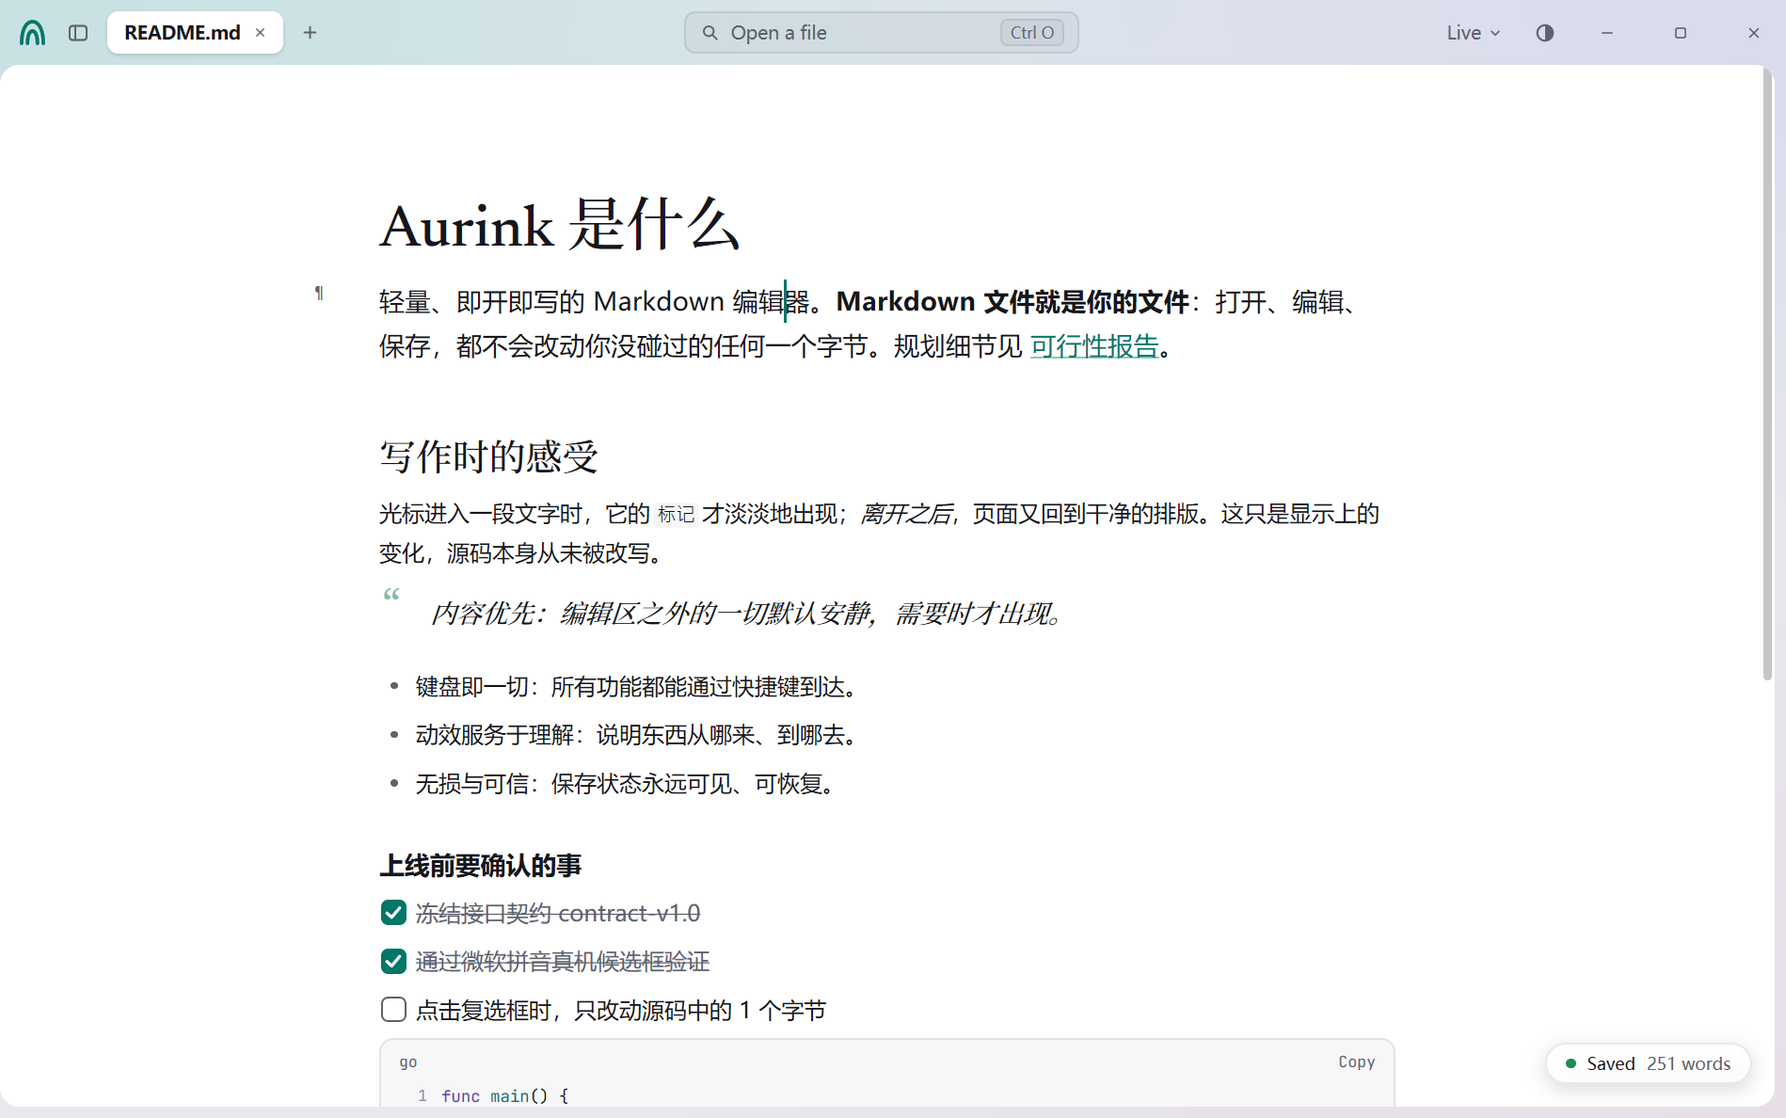
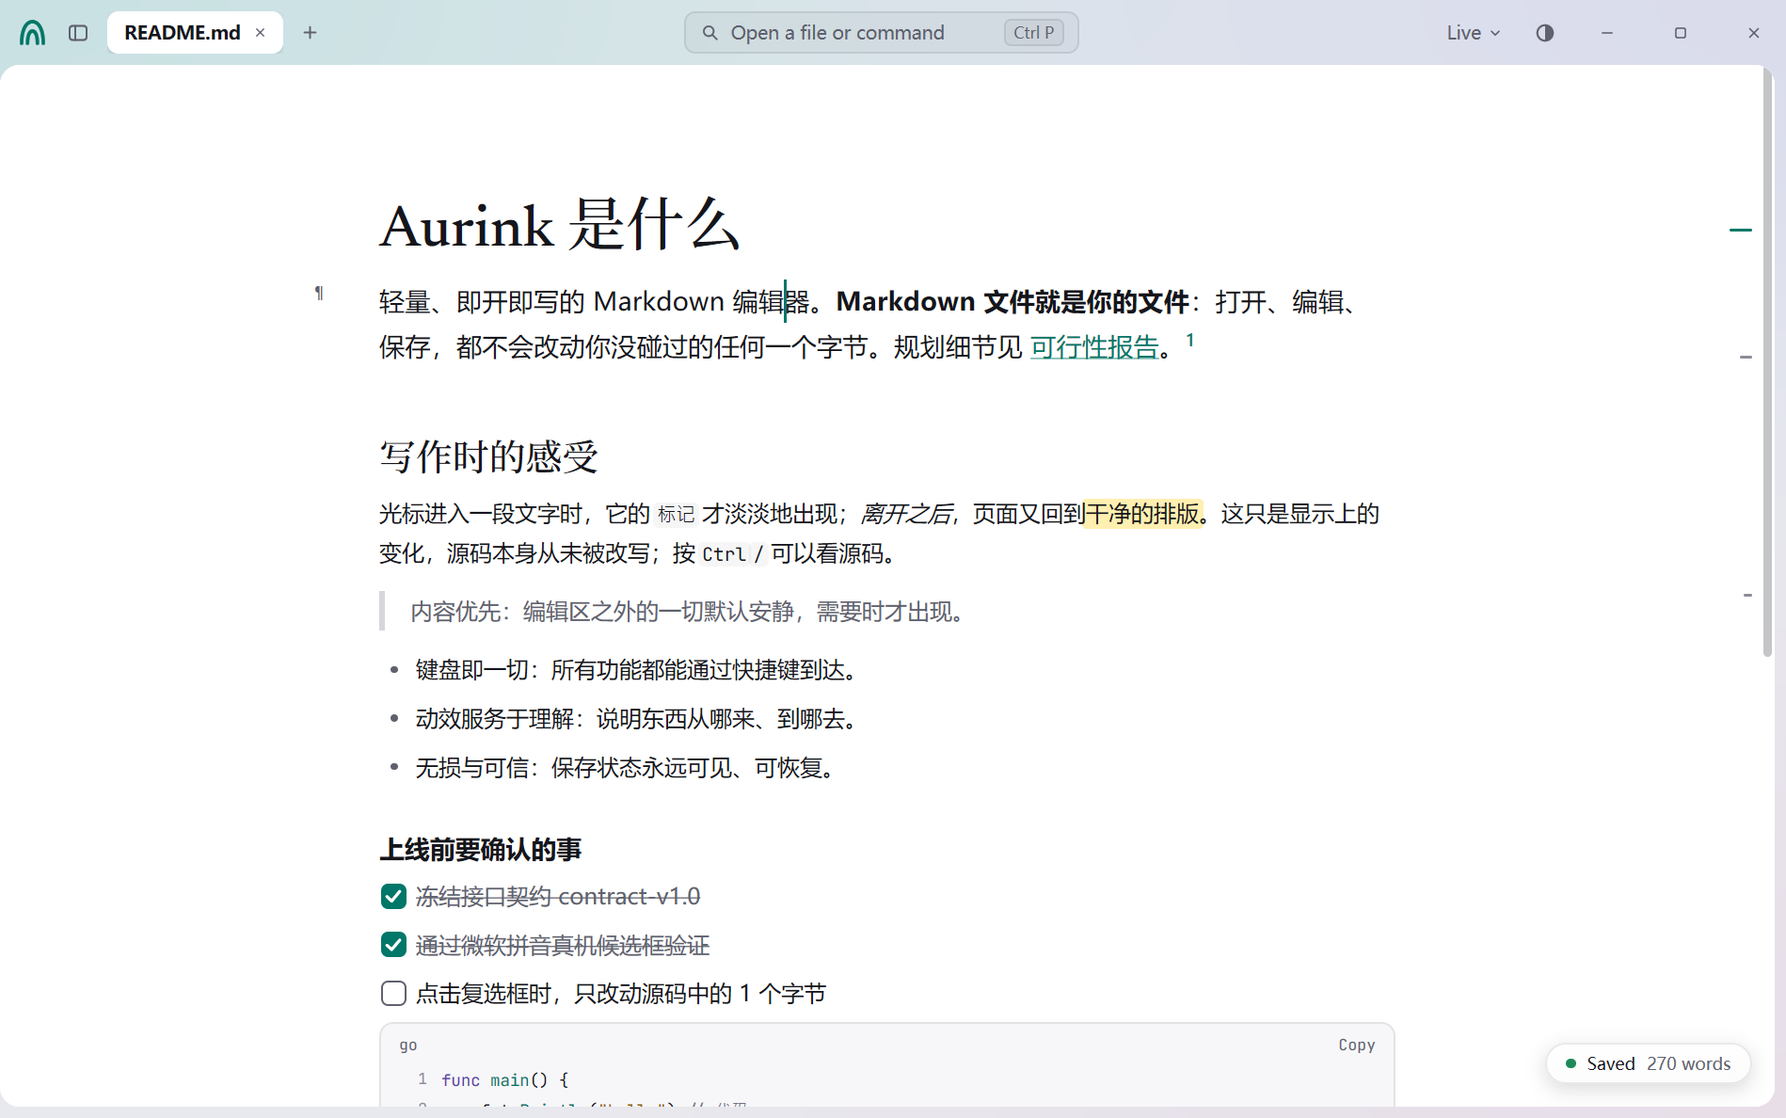
Batch 13: performance table, parity at 150% and in Chinese, idle check
- reports/quality.md: the 07 §7 table and the real-window frame work
  (200 KB p95 about 5 ms, 1 MB about 15 ms); TypeFrame is level with M1's
  code on this machine.
- windowcheck: frame work timing, notices dismissed after their shot,
  the find bar closed before the conflict shot.
- Parity: Find and Conflict records; Main updated for the rail, tree and
  footnotes; screens at 150% in English and Chinese.
- tests/qa: idle with a watched folder, each panel and the find bar open.
- docs/07: batches 11 to 13 recorded, 14 waits for the user.

diff --git a/tools/windowcheck/main.go b/tools/windowcheck/main.go
@@ -43,6 +43,10 @@ func (d *dispatcher) Post(fn func()) {
 
 type platform struct{ w *mygo.Window }
 
+// buildStart is when the window's last frame began building: a frame's work
+// runs from it to the end of the paint, without the wait for the display.
+var buildStart time.Time
+
 func (platform) OpenFile(done func(string))                     { done("") }
 func (platform) OpenFolder(done func(string))                   { done("") }
 func (platform) ConfirmTrash(_ string, done func(bool))         { done(true) }
@@ -133,7 +137,7 @@ func main() {
 			log.Fatal(err)
 		}
 		w = mygo.NewWindow(mygo.WindowOptions{Title: "Aurink", Width: 1280, Height: 800, TitleBarStyle: mygo.TitleBarHidden,
-			HideWindowButtons: true, Content: ui.View(s.View)})
+			HideWindowButtons: true, Content: ui.View(func(c *ui.Context) { buildStart = time.Now(); s.View(c) })})
 		d.w, p.w = w, w
 		go script(w, s, reg, store, tmp, *out)
 	})
@@ -193,13 +197,19 @@ func script(w *mygo.Window, s *shell.Shell, reg *commands.Registry, store *setti
 	shot("PaletteQuery")
 	on(w, func() { s.Palette().Close() })
 	time.Sleep(300 * time.Millisecond)
+	var shown []contract.NoticeHandle
 	on(w, func() {
-		s.Notify(contract.Notice{Level: contract.NoticeInfo, Message: "已保存到磁盘", Detail: "README.md", Sticky: true})
+		shown = append(shown, s.Notify(contract.Notice{Level: contract.NoticeInfo, Message: "已保存到磁盘", Detail: "README.md", Sticky: true}))
 	})
 	on(w, func() {
-		s.Notify(contract.Notice{Level: contract.NoticeError, Message: "保存失败", Detail: "磁盘已满", Sticky: true})
+		shown = append(shown, s.Notify(contract.Notice{Level: contract.NoticeError, Message: "保存失败", Detail: "磁盘已满", Sticky: true}))
 	})
 	shot("Notify")
+	on(w, func() {
+		for _, h := range shown {
+			h.Dismiss()
+		}
+	})
 	on(w, func() {
 		if err := store.Update(func(v *contract.Settings) { v.Appearance.ReduceTransparency = true }); err != nil {
 			log.Fatal(err)
@@ -247,10 +257,12 @@ func script(w *mygo.Window, s *shell.Shell, reg *commands.Registry, store *setti
 	run(contract.CmdEditReplace)
 	shot("SourceFind")
 	run(contract.CmdViewLive)
+	on(w, s.CloseFind)
 	// A conflict: an edit, a change on disk, a save.
 	on(w, func() {
 		m := s.ActiveSession().Model()
-		if _, err := m.Apply(contract.Transaction{Edits: []contract.TextEdit{{Range: contract.Range{Start: 0, End: 0}, Text: "x"}},
+		eol := strings.IndexByte(demo, '\n')
+		if _, err := m.Apply(contract.Transaction{Edits: []contract.TextEdit{{Range: contract.Range{Start: eol, End: eol}, Text: "（草稿）"}},
 			Origin: contract.OriginUser}); err != nil {
 			log.Fatal(err)
 		}
@@ -269,16 +281,18 @@ func script(w *mygo.Window, s *shell.Shell, reg *commands.Registry, store *setti
 	on(w, func() { w.Destroy(); mygo.App.Quit() })
 }
 
-// stress times 500 keystrokes from the edit to the end of the frame that paints it.
+// stress times 500 keystrokes from the edit to the end of the frame that paints
+// it, and that frame's own work from its build to its paint (07 §7).
 func stress(w *mygo.Window, s *shell.Shell, size int) {
 	const n = 500
 	times := make([]time.Duration, 0, n)
-	painted := make(chan struct{}, 1)
+	works := make([]time.Duration, 0, n)
+	painted := make(chan time.Duration, 1)
 	on(w, func() {
 		e := s.ActiveLive()
 		e.OnPainted = func() {
 			select {
-			case painted <- struct{}{}:
+			case painted <- time.Since(buildStart):
 			default:
 			}
 		}
@@ -300,12 +314,15 @@ func stress(w *mygo.Window, s *shell.Shell, size int) {
 			}
 		})
 		select {
-		case <-painted:
+		case work := <-painted:
 			times = append(times, time.Since(t0))
+			works = append(works, work)
 		case <-time.After(2 * time.Second):
 			log.Fatal("no frame painted the edit")
 		}
 	}
 	slices.Sort(times)
-	fmt.Printf("window %d KB: p50 %v p95 %v max %v\n", size>>10, times[n/2], times[n*95/100], times[n-1])
+	slices.Sort(works)
+	fmt.Printf("window %d KB: edit to painted p50 %v p95 %v max %v; frame work p50 %v p95 %v max %v\n", size>>10,
+		times[n/2], times[n*95/100], times[n-1], works[n/2], works[n*95/100], works[n-1])
 }

diff --git a/tests/qa/scenarios_test.go b/tests/qa/scenarios_test.go
@@ -1259,6 +1259,21 @@ var scenarios = []scenario{
 			a.t.Fatal("frames while idle")
 		}
 	}},
+	{"idle with a folder watched, each panel and the find bar open, no frames (07 §7)", func(a *app) {
+		root := a.folder("a.md", "sub/b.md")
+		a.s.Open(filepath.Join(root, "a.md"))
+		a.settle()
+		a.run(contract.CmdEditFind)
+		a.typed("a")
+		for _, id := range []contract.CommandID{contract.CmdViewFiles, contract.CmdViewOutline, contract.CmdViewSearch} {
+			a.run(id)
+			a.tt.Advance(time.Minute)
+			a.tt.Frame()
+			if a.tt.FramePending() {
+				a.t.Fatalf("frames while idle after %s", id)
+			}
+		}
+	}},
 	{"words count CJK by character", func(a *app) {
 		for text, want := range map[string]int{"": 0, "two words": 2, "中文 ok": 3, "don't-stop 1": 2, "# 标题\n": 2} {
 			if got := shell.CountWords(text); got != want {

diff --git a/internal/views/shell/find.go b/internal/views/shell/find.go
@@ -362,3 +362,10 @@ func (s *Shell) SetFind(q string) {
 		s.invalidate()
 	}
 }
+
+// CloseFind closes the live find bar of the active tab, as Escape does.
+func (s *Shell) CloseFind() {
+	if d := s.active; d != nil && d.find.open {
+		(&liveFinder{s: s, d: d}).Close()
+	}
+}

diff --git a/docs/07-phase2.md b/docs/07-phase2.md
@@ -293,7 +293,8 @@ M1 的真窗口数字包含等待屏幕刷新，不能直接和 8 ms 比。QA-2.
 | 8 | 完成 | `ab63719` `410ab25` 及本次 | — | 文件树：懒加载、新建、行内重命名（双击或 `file.rename`）、移到回收站（有未保存内容先确认）、拖到文件夹移动并在通知里撤销、改名和移动时标签跟随。大纲：滚动联动、点击定位。搜索：流式结果按文件分组、命中高亮、可折叠、点击定位，三种选项，最多保留 2000 处。1 万文件时树和搜索每帧都只构建约 20–30 行。`file.rename` 还没有默认快捷键（02 写的是 F2），要在 core 的默认键位里加，留到 INT-2.1。拖动时行的上浮姿态用的是 MyGo 自带的拖动副本，没有做 `Pose{Scale:1.02}`。搜索只搜磁盘上的内容，已打开但未保存的修改搜不到 |
 | 9 | 完成 | `eb594d1` `a207dcd` `1a72147` `5674df4` | — | 结构导轨（标题刻度、查找命中，点击跳转）；表格容器、玻璃工具条（+行/+列/格式化）、右键菜单、`Ctrl+Enter` 下方插行；链接弹层（编辑 `Ctrl+K` / 打开，相对路径按文档目录解析，引用式链接只开不改）；脚注上标与悬停预览、`<kbd>` `<mark>` `<sup>` 等行内 HTML 样式。BE-1.6b（投影 v2）由 Codex 做，负责人加端到端测试并做了 3 个变异，全被测出。导轨不画视口滑块，M1 的滚动条已有 |
 | 10 | 完成 | `a36cf10` `0583e7d` | — | 复制放 Markdown 源码、`text/markdown`、HTML 片段；粘贴优先 Markdown，其次 HTML/RTF 转换；图片与图片文件导入资源目录（未保存先另存）；拖入图片插在光标处，拖入 `.md` 打开；2000 行粘贴一次撤销。`a36cf10` 推送时门禁未过（视图导入了 `mygo/transfer`），`0583e7d` 改由 `adapters/clipboard` 实现后修复 |
-| 11 | 完成 | 本次 | — | 查找栏：右上角 440 宽玻璃，Aa / W / .*、计数、↑↓、替换行 Collapse 展开，Enter / Shift+Enter / Esc；实时与源码两种模式同一外观（D16）。横幅：冲突（保留我的版本 / 载入磁盘版本）、已删除（重新保存 / 关闭标签）、只读（另存为）、大文件；每个按钮都有场景测试，冲突按钮互换的变异两个测试都失败。胶囊冲突态改为橙点，新增“已删除，未写入”。BE-1.6c 修了多改动事务的映射耗时。同批修了 Linux CI 上 S4 字体测试（CJK 回退变成了已注册的 Noto） |
-| 真机修复 | 完成 | 本次 | — | 用户真机反馈两处与 Typora 不一致：① 单独的 `#` `+` `-` `*` `1.` `>` 立即变成空标题/列表/引用，再打字又变回文本；改为后跟空格才生效（投影把待定标记显示为普通段落，Enter/Backspace 按文本处理；BE-FIX-PENDING 由 Codex 做，04 §4.3.7 加一条例外）。`> a` 下一行的 `>` 是引用内空行，不算待定。② 引用由衬线斜体 + 悬挂引号改为正文字体淡色 + 左侧 4 px 竖条贯穿整块，导出 CSS 同步（02 §1、§4.2 已改）。设计基线里的引用仍是旧样式，批次 13 对照时按新样式记差异。`TestReplaceAllAtScale` 在 `-race` 下不计时限 |
-| 12 | 完成 | 本次 | — | INT-2.1：会话保存与恢复（含被杀死后、关窗后、文件缺失、会话损坏、设置关闭、崩溃副本排位）、最近文件（欢迎页、快速打开、系统最近文档）、导出 HTML 命令、F2 / Ctrl+Shift+V / F3 默认键。会话的 6 个变异（不重排、不恢复滚动、关窗不冻结、不展开目录、不数缺失文件、编辑器不认 Ctrl+Shift+V）都被测出。窗口状态和对话框的真窗口验证留到批次 13 |
-| 13–14 | 未开始 | — | — | |
+| 11 | 完成 | `2283a72` `23b933e` `cae3cd3` | — | 查找栏：右上角 440 宽玻璃，Aa / W / .*、计数、↑↓、替换行 Collapse 展开，Enter / Shift+Enter / Esc；实时与源码两种模式同一外观（D16）。横幅：冲突（保留我的版本 / 载入磁盘版本）、已删除（重新保存 / 关闭标签）、只读（另存为）、大文件；每个按钮都有场景测试，冲突按钮互换的变异两个测试都失败。胶囊冲突态改为橙点，新增“已删除，未写入”。BE-1.6c 修了多改动事务的映射耗时。同批修了 Linux CI 上 S4 字体测试（CJK 回退变成了已注册的 Noto） |
+| 真机修复 | 完成 | `d813477` `cc7cb90` | — | 用户真机反馈两处与 Typora 不一致：① 单独的 `#` `+` `-` `*` `1.` `>` 立即变成空标题/列表/引用，再打字又变回文本；改为后跟空格才生效（投影把待定标记显示为普通段落，Enter/Backspace 按文本处理；BE-FIX-PENDING 由 Codex 做，04 §4.3.7 加一条例外）。`> a` 下一行的 `>` 是引用内空行，不算待定。② 引用由衬线斜体 + 悬挂引号改为正文字体淡色 + 左侧 4 px 竖条贯穿整块，导出 CSS 同步（02 §1、§4.2 已改）。设计基线里的引用仍是旧样式，批次 13 对照时按新样式记差异。`TestReplaceAllAtScale` 在 `-race` 下不计时限 |
+| 12 | 完成 | `8ff019e` `ae6e96a` | — | INT-2.1：会话保存与恢复（含被杀死后、关窗后、文件缺失、会话损坏、设置关闭、崩溃副本排位）、最近文件（欢迎页、快速打开、系统最近文档）、导出 HTML 命令、F2 / Ctrl+Shift+V / F3 默认键。会话的 6 个变异（不重排、不恢复滚动、关窗不冻结、不展开目录、不数缺失文件、编辑器不认 Ctrl+Shift+V）都被测出。窗口状态和对话框的真窗口验证留到批次 13 |
+| 13 | 完成 | `5edaa0a` 及本次 | — | QA-2.x。真窗口 E2E（`tests/e2e`，build tag `e2e`，只在本机 Windows 跑，不进 CI）：记住的窗口大小、以文件夹参数启动、快速打开、输入与自动保存、编辑中被外部修改后保留我的版本、关窗后再启动恢复文件夹和标签；原生对话框经 UI Automation 应答：新文档另存为、打开、导出 HTML、关闭确认的取消与不保存。E2E 发现并修了两处真实缺陷：MyGo 不把文件夹参数交给 `OnOpenFile`（改由 `folderArgs` 处理），真实应用的快速打开没有文件夹里的文件（新增后台 `fileIndex`）。性能表和真窗口帧工作时间见 `reports/quality.md`：200 KB 帧工作 p95 约 5 ms，1 MB 约 15 ms；`TypeFrame` 和 M1 代码同机对比持平。基线对照新增 Find、Conflict，150% 缩放和中文界面见 `reports/parity/README.md`。新增空闲场景（文件夹监听、各面板和查找栏打开时 0 帧） |
+| 14 | 等待用户 | — | — | M2 真机验收，清单见 §9 用户行 |

diff --git a/reports/quality.md b/reports/quality.md
@@ -208,6 +208,35 @@ Real window, `tools/windowcheck`, 500 keystrokes from the edit to the painted fr
 
 `tests/ui/perf_test.go`'s limit was raised from 8 ms to 16 ms in `ce57fb1`, because the Windows CI runner reached 11 ms. That test no longer guards the 8 ms budget.
 
+## QA-2.x performance (07 §7)
+
+Windows 11, one machine, 150% scaling (144 DPI). Integrated graphics, macOS and Linux are unverified.
+
+| Item | Budget | Result | Evidence |
+|---|---|---|---|
+| Typing, 200 KB | No worse than M1 | 1.22–1.30 ms/op; M1 code (`5b6bcc3~1`) on the same machine 1.22–1.31 ms/op | `BenchmarkTypeFrame200KB -benchtime 300x -count 3` |
+| Typing, 1 MB | No worse than M1 | 2.49–2.58 ms/op; M1 2.56–2.80 ms/op | `BenchmarkTypeFrame1MB`, same run |
+| Scrolling 10,000 blocks | No whole-screen relayout, rail open too | 1.08 ms/op, 7.5 shapes/frame; with 1,000 rail marks a frame lays out 0 rows, and a jump to the end at most 200 | `BenchmarkScroll10kBlocks`, `TestScrollShapesNoWholeScreen`, `TestRailDoesNotLayOutTheDocument` |
+| Find in 1 MB | < 5 ms | Literal 1.37 ms, regex 2.47 ms | `BenchmarkFind` |
+| Palette, 500 commands + 10,000 files | One frame | About 11 rows built per keystroke | `TestPaletteAtScale` |
+| File tree, 10,000 entries | Visible rows only | About 20–30 rows built per frame | `TestFileTreeAtScale`, `TestSearchAtScale` |
+| Idle | 0 frames with the panels and the watcher open | 0 | Scenario "idle with a folder watched, each panel and the find bar open" in `tests/qa` |
+
+`TypeFrame` must run with a fixed count. With `-benchtime 2s` it types several thousand characters into one paragraph, and that paragraph's layout raises the result to 2.7 ms on both the M1 and the current code.
+
+Real window, `tools/windowcheck`, 500 keystrokes, two runs. "Edit to painted" includes waiting for the display's refresh, as in M1. "Frame work" runs from the start of the frame's build to the end of its paint. This number is the one comparable with M1's 8 ms budget:
+
+| Size | Edit to painted p50 / p95 / max | Frame work p50 / p95 / max |
+|---|---|---|
+| 200 KB | 15.8 / 18.2 / 19.7 ms; 15.9 / 17.9 / 19.3 ms | 3.2 / 5.1 / 7.6 ms; 3.1 / 4.9 / 5.9 ms |
+| 1 MB | 15.3 / 22.5 / 33.9 ms; 15.4 / 22.3 / 32.0 ms | 8.1 / 15.4 / 22.5 ms; 8.0 / 15.1 / 22.0 ms |
+
+At 200 KB, frame work p95 is about 5 ms, inside 8 ms. At 1 MB it is about 15 ms, past 8 ms. M1's budget was for ≤200 KB. 1 MB stays recorded as it is, and on the user's instruction of 2026-11-01 the owner does not pursue it. "Edit to painted" waits for vertical sync here (60 Hz), so its p50 is about one refresh.
+
+## QA-2.2 real-window E2E
+
+`go test -tags e2e ./tests/e2e -run 'TestM2Flow|TestNativeDialogs' -v` [实测，Windows only, local, not in CI]: the real app driven through MyGo's automation plugin. It covers the remembered window size, a folder given as an argument, quick open, typing and autosave, an external change while edited then Keep Mine, closing, and a second start with the folder and tab back. The native dialogs are answered through UI Automation (`tests/e2e/dialog.ps1`): Save As of a new document, Open, Export HTML (which offers `other.html`), and the close confirmation, where Cancel keeps the tab and Don't Save closes it. Both tests passed twice in a row. A mutant that skips the session restore was caught. macOS and Linux dialogs are unverified.
+
 ## Not exercised
 
-Open, save and confirm dialogs in a real window. Installer file association. Microsoft Pinyin. `RevealInline` feel. Launching with a file argument and the second instance were checked on Windows [实测]; macOS and Linux real use was not.
+Installer file association. Microsoft Pinyin. `RevealInline` feel. Launching with a file argument and the second instance were checked on Windows [实测]; macOS and Linux real use was not.

diff --git a/reports/parity/README.md b/reports/parity/README.md
@@ -1,4 +1,4 @@
-# M1 基线对照
+# 基线对照（M1、M2）
 
 截图由 `go run ./tools/windowcheck`（真窗口，Windows 11，本机一种硬件）生成，放在 `screens/`。`DesignSystem` 用 `-design` 单独生成。对照方式是负责人目视比较截图和 `docs/design/baseline/`，没有做像素比对。结论是负责人的观察，观感最终由用户在真机确认（06 §8）。
 
@@ -14,3 +14,11 @@
 | Welcome | 一致，没有极光 | [Welcome.md](Welcome.md) |
 | DesignSystem | 令牌取值一致，缺开关控件 | [DesignSystem.md](DesignSystem.md) |
 | Palette | 一致，命令用短名，有 4 处差异 | [Palette.md](Palette.md) |
+| Find | 一致，引用样式按 Typora | [Find.md](Find.md) |
+| Conflict | 一致，没有 P2 的对比按钮 | [Conflict.md](Conflict.md) |
+
+## M2（批次 13）
+
+本机显示缩放是 150%（144 DPI），`screens/` 和 `screens/zh-Hans/` 的截图都是 150% 下的真窗口，所以图片是 1898×1188，基线是 1280×800。负责人看过 150% 下的 Main、Files、Find、Conflict 和中文的 Files、Find、Conflict：没有裁切、错位或模糊。视图菜单展开的样子没有截图（§8 风险），留给用户真机看一次。100% 和其他缩放没有在本批截图，留给用户真机判断。
+
+`Files`、`Outline`、`Search`、`Table`、`Link`、`SourceFind` 是 M2 新界面的截图，没有对应的基线，只检查有没有明显错误。用户 2026-11-02 要求引用对齐 Typora 后，所有截图里的引用都和基线不同，这是有意的。

diff --git a/reports/parity/Main.md b/reports/parity/Main.md
@@ -9,7 +9,7 @@
 | 差异 | 处理 |
 |---|---|
 | 状态胶囊没有基线的外圈 | 小差异，等用户真机判断 |
-| 引用块上下间距比基线紧 | 小差异，等用户真机判断 |
+| 引用是 Typora 式左竖条加淡色正文，不是基线的悬挂引号加衬线斜体 | 有意的差异，用户 2026-11-02 要求对齐 Typora |
 | 界面文字为英文 | 跟随本机系统语言，见 README |
 
 ## 按 06 §2.2 不对照的部分
@@ -17,7 +17,15 @@
 | 内容 | 补上的阶段 |
 |---|---|
 | Front Matter 页眉、`==高亮==`、设置按钮 | M3 |
-| 结构导轨、侧栏文件树、脚注上标 | M2 |
+
+## M2 补上的部分（批次 13 对照，`screens/Files.png`、`screens/zh-Hans/Files.png`）
+
+结构导轨（右侧标题刻度，当前标题加长加色）、侧栏的文件 / 大纲 / 搜索分段、文件树（文件夹箭头、缩进、当前文件高亮、未保存绿点）、脚注上标都与基线一致。两处小差异：
+
+| 差异 | 处理 |
+|---|---|
+| 树按名称排序，`assets` 在 `docs` 前；基线的顺序不是字母序 | 按名称排序是 02 的规则，不改 |
+| 脚注上标紧跟在句末；基线里上标折到了下一行 | 基线的折行是那张图的宽度造成的，不改 |
 
 ## 对照时修掉的缺陷
 

diff --git a/reports/parity/Find.md b/reports/parity/Find.md
@@ -1,0 +1,12 @@
+# Find
+
+截图：`screens/Find.png`、`screens/SourceFind.png`（中文界面在 `screens/zh-Hans/`），基线：`docs/design/baseline/Find.png`。
+
+查找栏位置（正文右上角浮层）、玻璃材质、折叠箭头、查询框、计数 `1 / 2`、Aa / W / .*、↑ ↓ ×、替换行（替换为 / 替换 / 全部替换）与基线一致。当前命中用深色底，其他命中用浅黄底，导轨上有命中刻度。源码模式用同一外观（D16）。中文界面的按钮文字没有截断。
+
+## 差异
+
+| 差异 | 处理 |
+|---|---|
+| 引用是 Typora 式左竖条，基线是悬挂引号加斜体 | 有意的差异，用户 2026-11-02 要求对齐 Typora |
+| 基线顶部有 Front Matter 页眉 | M3，不对照 |

diff --git a/reports/parity/Conflict.md b/reports/parity/Conflict.md
@@ -1,0 +1,13 @@
+# Conflict
+
+截图：`screens/Conflict.png`（中文界面在 `screens/zh-Hans/`），基线：`docs/design/baseline/Conflict.png`。
+
+正文顶部的横幅、警告图标、标题“文件已被其他程序修改。”、说明“你的未保存内容仍然完整，尚未写入磁盘。”、主按钮“保留我的版本”和次按钮“载入磁盘版本”与基线一致。胶囊变成橙点加“有冲突，未写入”。侧栏里有未保存内容的文件带绿点。
+
+## 差异
+
+| 差异 | 处理 |
+|---|---|
+| 没有基线里的“对比（P2）”按钮 | 基线自己标了 P2，不在 M2 范围 |
+| 引用样式 | 同 [Find.md](Find.md) |
+| 基线顶部有 Front Matter 页眉 | M3，不对照 |
